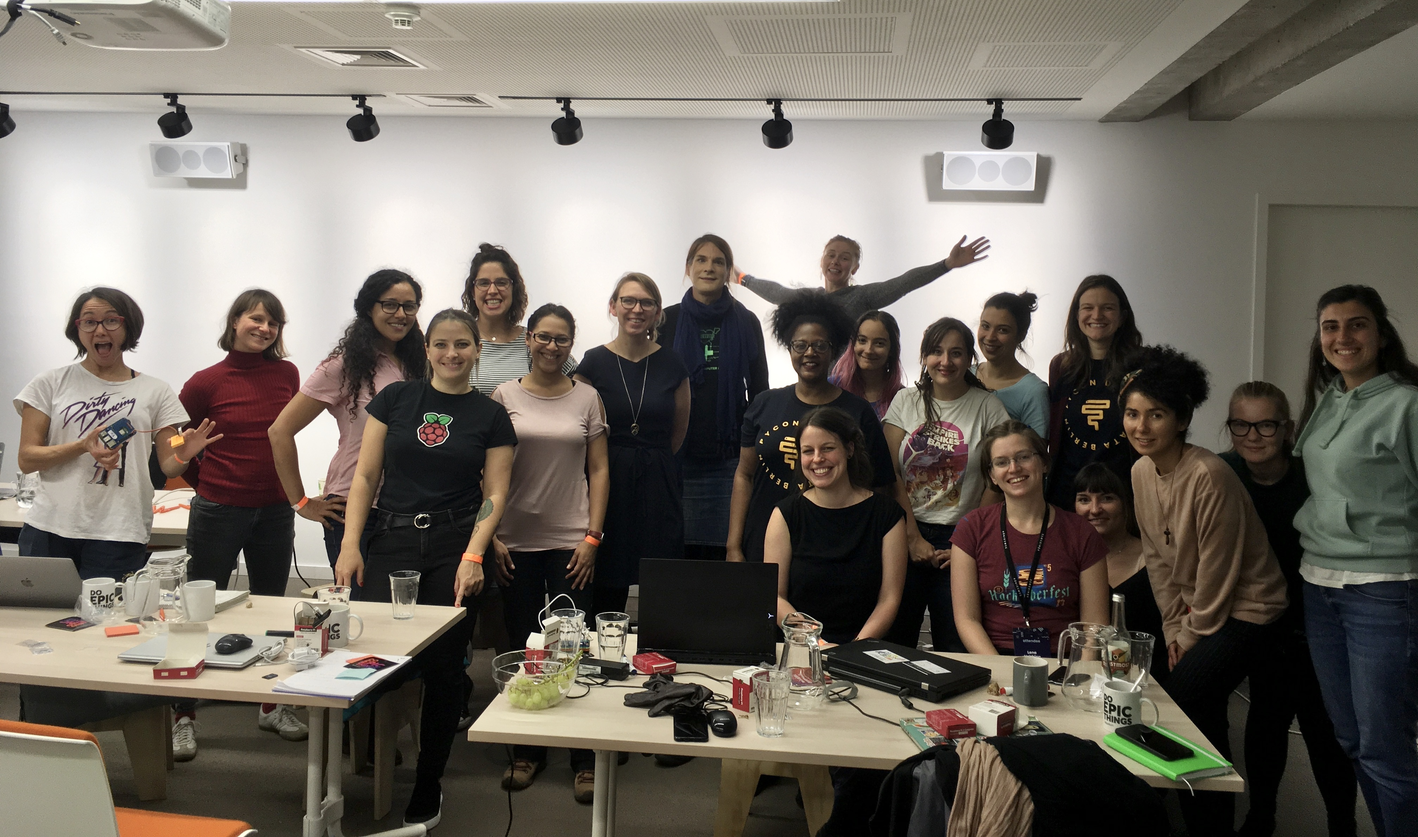
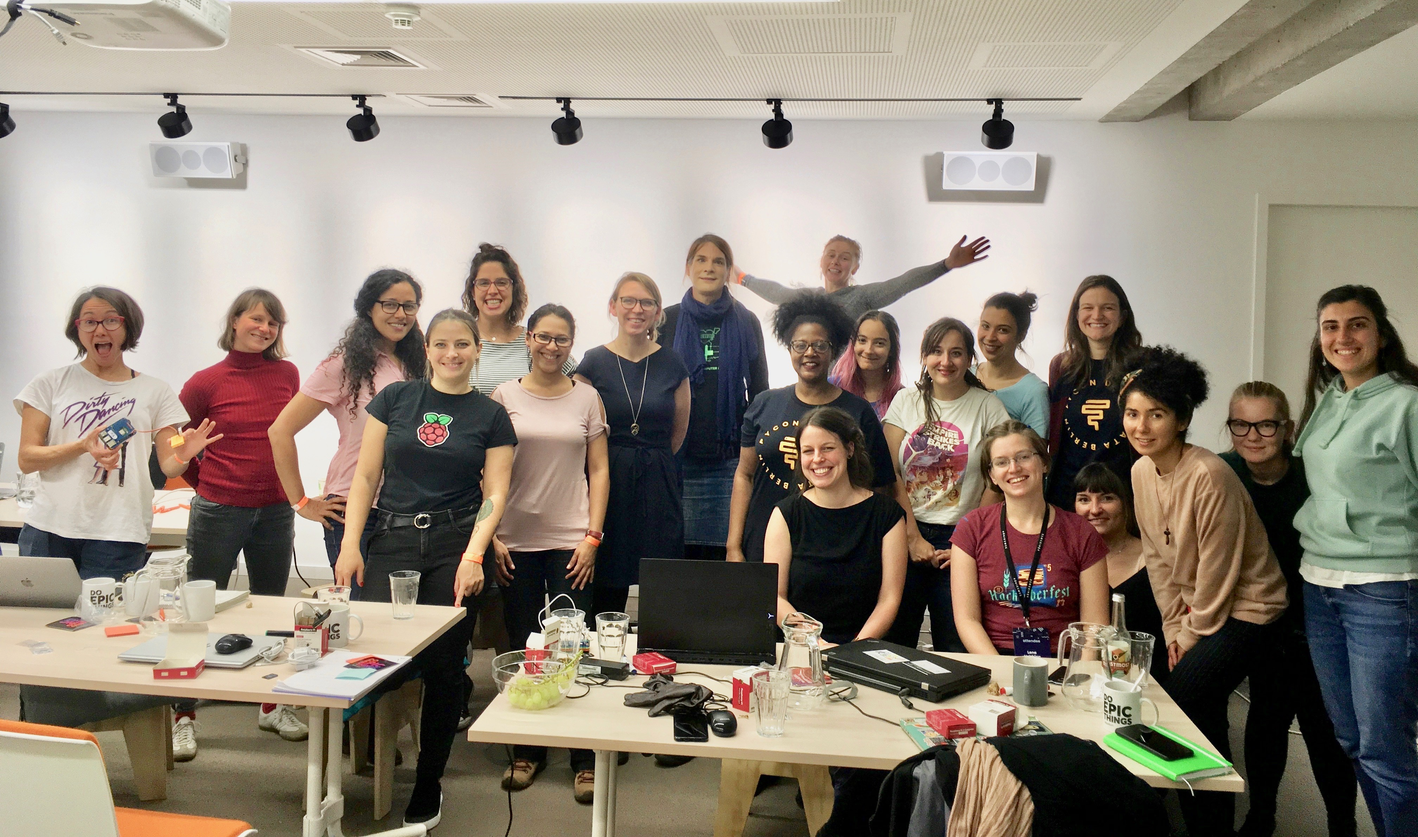
added bio for Annemarie and brighter image

diff --git a/index.html b/index.html
@@ -155,15 +155,10 @@
                         <div class="bio">
                             <p class="name">Annemarie Paul</p>
                             <p>
-                                Lorem ipsum dolor sit amet, consectetur adipiscing elit. Donec quis pulvinar lorem. Vestibulum finibus
-                                tincidunt ipsum. Fusce quis ipsum dapibus, sollicitudin enim a, hendrerit neque. Aenean dolor metus,
-                                convallis non lectus auctor, lacinia rhoncus nisi. Nullam sit amet mi nec leo elementum faucibus quis at
-                                magna. Mauris iaculis, lacus non porttitor imperdiet, leo quam tempor sapien, non ornare tellus urna
-                                faucibus justo. Proin mi dolor, maximus a neque vel, blandit tristique lorem. Sed fringilla lobortis quam
-                                vitae laoreet. Pellentesque feugiat eleifend pellentesque. Vivamus luctus interdum nunc, eu luctus velit
-                                porta at. Suspendisse blandit posuere lectus in tincidunt. Aenean felis erat, consectetur sed eros ac,
-                                semper aliquam mi. Cras a volutpat eros, eget porttitor sem. Praesent tincidunt urna vel eros viverra, id
-                                laoreet justo laoreet.
+                                Annemarie works as a senior data scientist in Hamburg and helps generating and deploying data-driven business
+                                solutions, among other in the logistics industry. She holds a PhD with focus statistics and labor economics and is very
+                                curious how (clean and often not so clean) data influences our decisions - from data literacy to data paralysis - and
+                                how to change this. She is Women in AI city lead and Pyladies co-organizer. When she is not coding, she likes to dance lindy hop and to discover new places in and around Hamburg.
                             </p>
                             <p class="social-buttons">
                                 <a href="https://twitter.com/AnneM_Paul" target="_blank"><span class="fa fa-twitter">&nbsp;</span></a>
